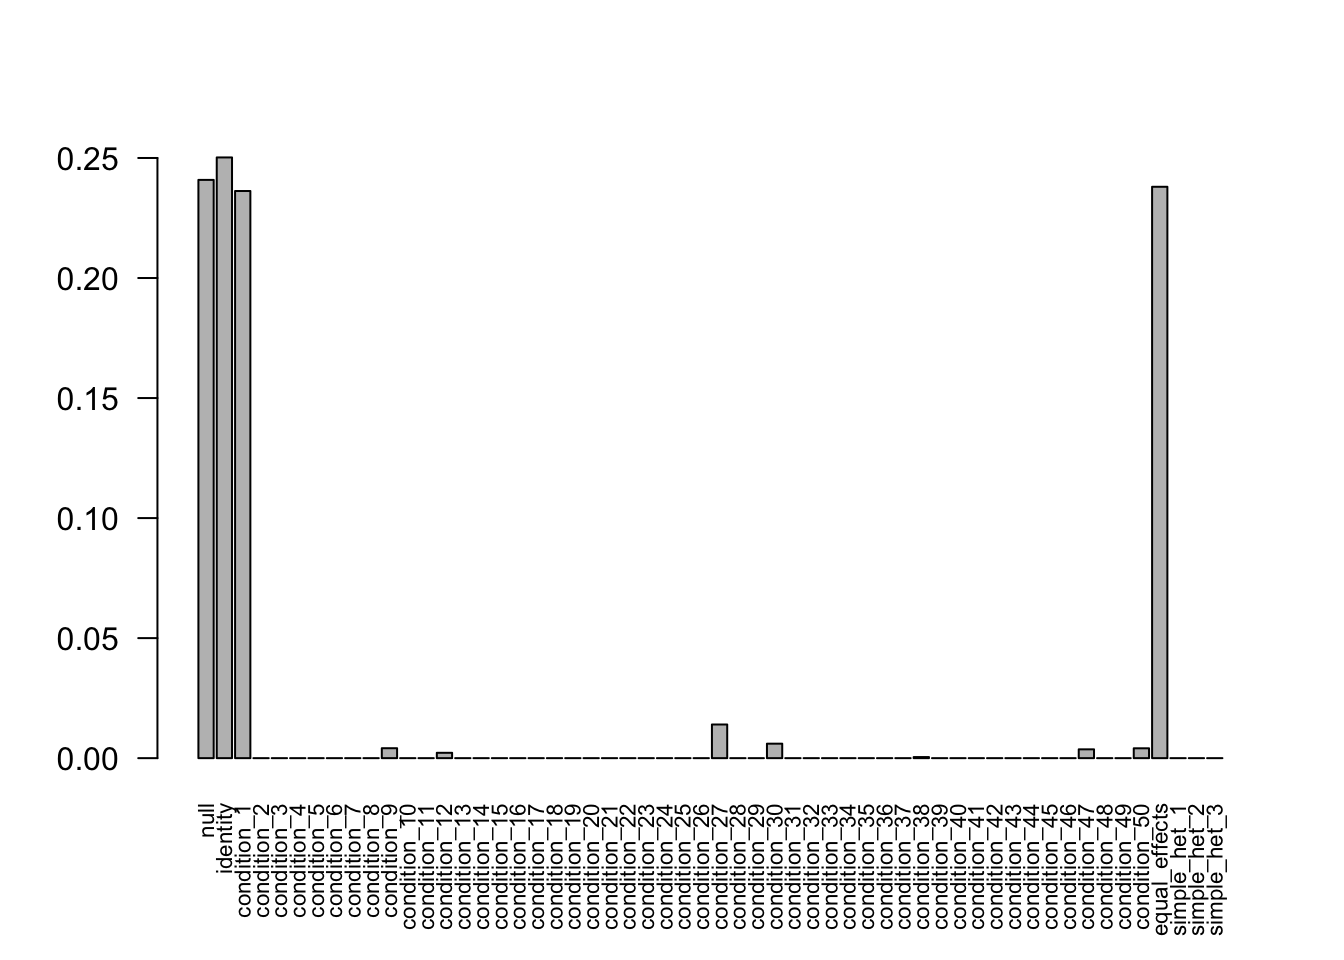
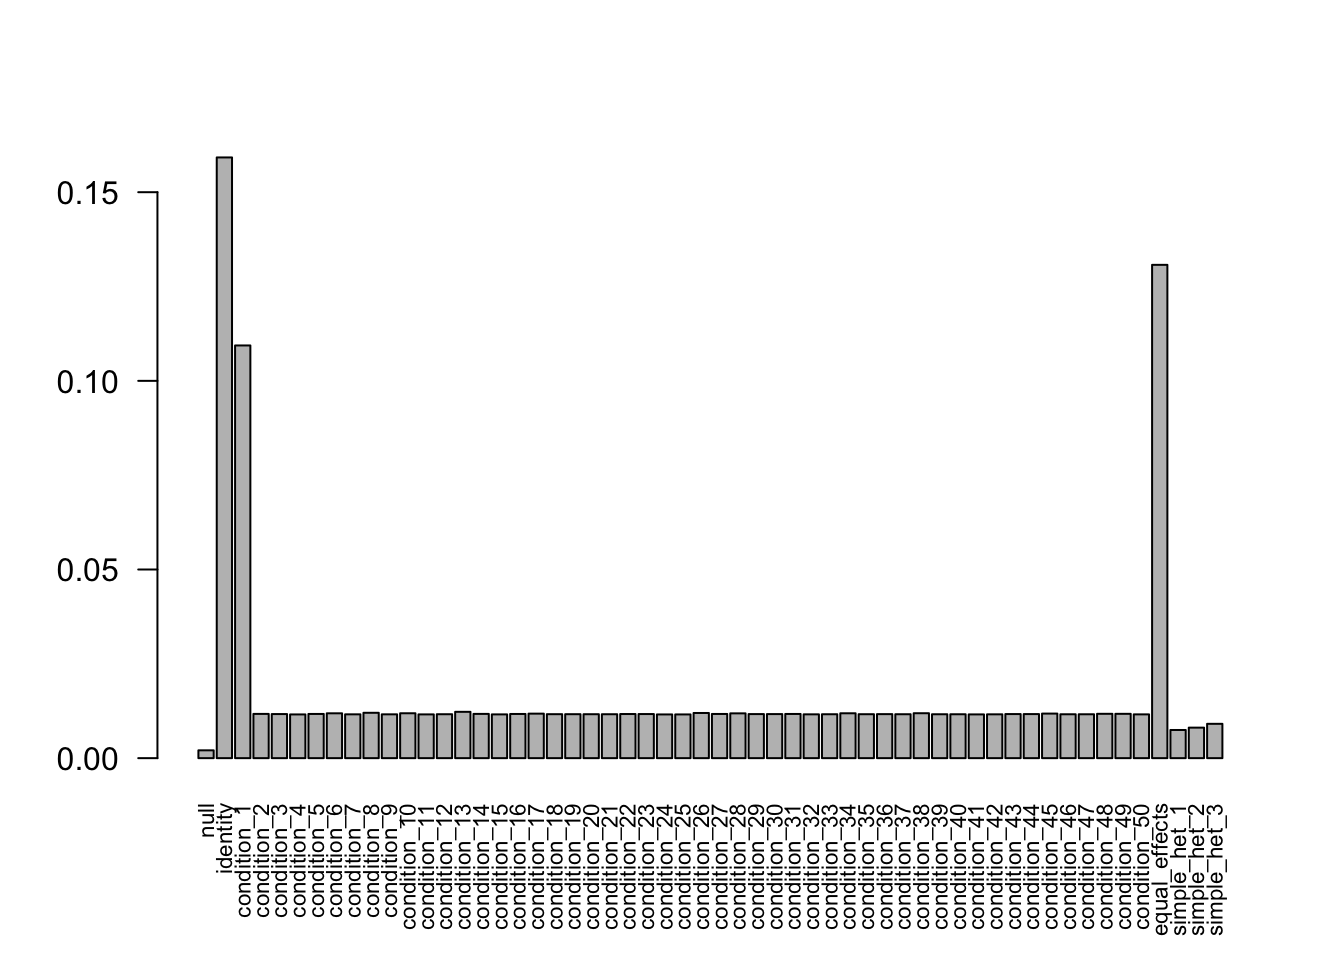
Build site.

diff --git a/docs/mash_missing_samplesize.html b/docs/mash_missing_samplesize.html
@@ -335,11 +335,11 @@ div.section {
 
 <!-- Update knitr chunk options -->
 <!-- Insert the date the file was last updated -->
-<p><strong>Last updated:</strong> 2018-03-05</p>
+<p><strong>Last updated:</strong> 2018-03-06</p>
 <!-- Insert the code version (Git commit SHA1) if Git repository exists and R
  package git2r is installed -->
-<p><strong>Code version:</strong> ddb3166</p>
-<p>We simulate data with R = 50, N = 300 and 400.</p>
+<p><strong>Code version:</strong> 193208d</p>
+<p>The weights from data R = 50, N = 400 are non-zero. Increasing the sample size to 800 and 3200, the weights shrink to 0. Decreasing the sampel size to 400 provides the correct weights as well.</p>
 <div id="n-400" class="section level1">
 <h1>N = 400</h1>
 <pre class="r"><code>library(mashr)</code></pre>
@@ -352,7 +352,7 @@ U.c = cov_canonical(mash.data)
 
 mash.model = mash(mash.data, U.c)</code></pre>
 <pre><code> - Computing 400 x 1101 likelihood matrix.
- - Likelihood calculations took 1.09 seconds.
+ - Likelihood calculations took 1.00 seconds.
  - Fitting model with 1101 mixture components.</code></pre>
 <pre><code>Warning in REBayes::KWDual(A, rep(1, k), normalize(w), control = control): estimated mixing distribution has some negative values:
                consider reducing rtol</code></pre>
@@ -360,14 +360,63 @@ mash.model = mash(mash.data, U.c)</code></pre>
 0.023990286246669, : Optimization step yields mixture weights that are
 either too small, or negative; weights have been corrected and renormalized
 after the optimization.</code></pre>
-<pre><code> - Model fitting took 1.95 seconds.
+<pre><code> - Model fitting took 1.94 seconds.
  - Computing posterior matrices.
- - Computation allocated took 1.33 seconds.</code></pre>
+ - Computation allocated took 1.27 seconds.</code></pre>
 <pre class="r"><code>barplot(get_estimated_pi(mash.model), las=2, cex.names = 0.7)</code></pre>
 <p><img src="figure/mash_missing_samplesize.Rmd/unnamed-chunk-2-1.png" width="672" style="display: block; margin: auto;" /></p>
 </div>
-<div id="n-300" class="section level1">
-<h1>N = 300</h1>
+<div id="increase-to-n-800" class="section level1">
+<h1>Increase to N = 800</h1>
+<pre class="r"><code>set.seed(2018)
+data = simple_sims(200, 50, err_sd = 0.1)
+
+mash.data = mash_set_data(data$Bhat, data$Shat)
+U.c = cov_canonical(mash.data)
+
+mash.model = mash(mash.data, U.c)</code></pre>
+<pre><code> - Computing 800 x 1156 likelihood matrix.
+ - Likelihood calculations took 1.73 seconds.
+ - Fitting model with 1156 mixture components.</code></pre>
+<pre><code>Warning in REBayes::KWDual(A, rep(1, k), normalize(w), control = control): estimated mixing distribution has some negative values:
+               consider reducing rtol</code></pre>
+<pre><code>Warning in mixIP(matrix_lik = structure(c(0.0183236802594066,
+0.0842224653599791, : Optimization step yields mixture weights that are
+either too small, or negative; weights have been corrected and renormalized
+after the optimization.</code></pre>
+<pre><code> - Model fitting took 4.59 seconds.
+ - Computing posterior matrices.
+ - Computation allocated took 2.54 seconds.</code></pre>
+<pre class="r"><code>barplot(get_estimated_pi(mash.model), las=2, cex.names = 0.7)</code></pre>
+<p><img src="figure/mash_missing_samplesize.Rmd/unnamed-chunk-3-1.png" width="672" style="display: block; margin: auto;" /></p>
+<p>There are some shinkage for the small weights.</p>
+</div>
+<div id="increase-to-n-3200" class="section level1">
+<h1>Increase to N = 3200</h1>
+<pre class="r"><code>set.seed(2018)
+data = simple_sims(800, 50, err_sd = 0.1)
+
+mash.data = mash_set_data(data$Bhat, data$Shat)
+U.c = cov_canonical(mash.data)
+
+mash.model = mash(mash.data, U.c)</code></pre>
+<pre><code> - Computing 3200 x 1156 likelihood matrix.
+ - Likelihood calculations took 7.04 seconds.
+ - Fitting model with 1156 mixture components.</code></pre>
+<pre><code>Warning in REBayes::KWDual(A, rep(1, k), normalize(w), control = control): estimated mixing distribution has some negative values:
+               consider reducing rtol</code></pre>
+<pre><code>Warning in mixIP(matrix_lik = structure(c(0.195406888247947,
+0.198551348399632, : Optimization step yields mixture weights that are
+either too small, or negative; weights have been corrected and renormalized
+after the optimization.</code></pre>
+<pre><code> - Model fitting took 5.28 seconds.
+ - Computing posterior matrices.
+ - Computation allocated took 3.97 seconds.</code></pre>
+<pre class="r"><code>barplot(get_estimated_pi(mash.model), las=2, cex.names = 0.7)</code></pre>
+<p><img src="figure/mash_missing_samplesize.Rmd/unnamed-chunk-4-1.png" width="672" style="display: block; margin: auto;" /></p>
+</div>
+<div id="decrease-to-n-300" class="section level1">
+<h1>Decrease to N = 300</h1>
 <pre class="r"><code>set.seed(2018)
 data = simple_sims(75, 50, err_sd = 0.1)
 
@@ -376,7 +425,7 @@ U.c = cov_canonical(mash.data)
 
 mash.model = mash(mash.data, U.c)</code></pre>
 <pre><code> - Computing 300 x 1101 likelihood matrix.
- - Likelihood calculations took 0.64 seconds.
+ - Likelihood calculations took 0.62 seconds.
  - Fitting model with 1101 mixture components.</code></pre>
 <pre><code>Warning in REBayes::KWDual(A, rep(1, k), normalize(w), control = control): estimated mixing distribution has some negative values:
                consider reducing rtol</code></pre>
@@ -384,11 +433,11 @@ mash.model = mash(mash.data, U.c)</code></pre>
 0.268626142814483, : Optimization step yields mixture weights that are
 either too small, or negative; weights have been corrected and renormalized
 after the optimization.</code></pre>
-<pre><code> - Model fitting took 1.13 seconds.
+<pre><code> - Model fitting took 1.11 seconds.
  - Computing posterior matrices.
- - Computation allocated took 0.11 seconds.</code></pre>
+ - Computation allocated took 0.10 seconds.</code></pre>
 <pre class="r"><code>barplot(get_estimated_pi(mash.model), las=2, cex.names = 0.7)</code></pre>
-<p><img src="figure/mash_missing_samplesize.Rmd/unnamed-chunk-3-1.png" width="672" style="display: block; margin: auto;" /></p>
+<p><img src="figure/mash_missing_samplesize.Rmd/unnamed-chunk-5-1.png" width="672" style="display: block; margin: auto;" /></p>
 <p>The weights learnd from N=300 model is correct.</p>
 </div>
 <div id="session-information" class="section level1">

diff --git a/docs/mash_missing_whole_row.html b/docs/mash_missing_whole_row.html
@@ -335,10 +335,10 @@ div.section {
 
 <!-- Update knitr chunk options -->
 <!-- Insert the date the file was last updated -->
-<p><strong>Last updated:</strong> 2018-03-05</p>
+<p><strong>Last updated:</strong> 2018-03-06</p>
 <!-- Insert the code version (Git commit SHA1) if Git repository exists and R
  package git2r is installed -->
-<p><strong>Code version:</strong> 373cde0</p>
+<p><strong>Code version:</strong> 193208d</p>
 <div id="r5" class="section level1">
 <h1>R=5</h1>
 <pre class="r"><code>library(mashr)</code></pre>
@@ -413,7 +413,7 @@ after the optimization.</code></pre>
 <pre><code>FIXME: &#39;compute_posterior_matrices&#39; in Rcpp does not transfer EZ to EE</code></pre>
 <pre class="r"><code>par(mfrow=c(1,2))
 barplot(get_estimated_pi(mash.model.missing.1), las=2, cex.names = 0.7, main=&#39;with missing values&#39;)
-barplot(get_estimated_pi(mash.model.missing.na.1), las=2, cex.names = 0.7, main=&#39;without missing values&#39;)</code></pre>
+barplot(get_estimated_pi(mash.model.missing.na.1), las=2, cex.names = 0.7, main=&#39;delete missing values&#39;)</code></pre>
 <p><img src="figure/mash_missing_whole_row.Rmd/unnamed-chunk-6-1.png" width="672" style="display: block; margin: auto;" /></p>
 <pre class="r"><code>par(mfrow=c(1,1))</code></pre>
 </div>
